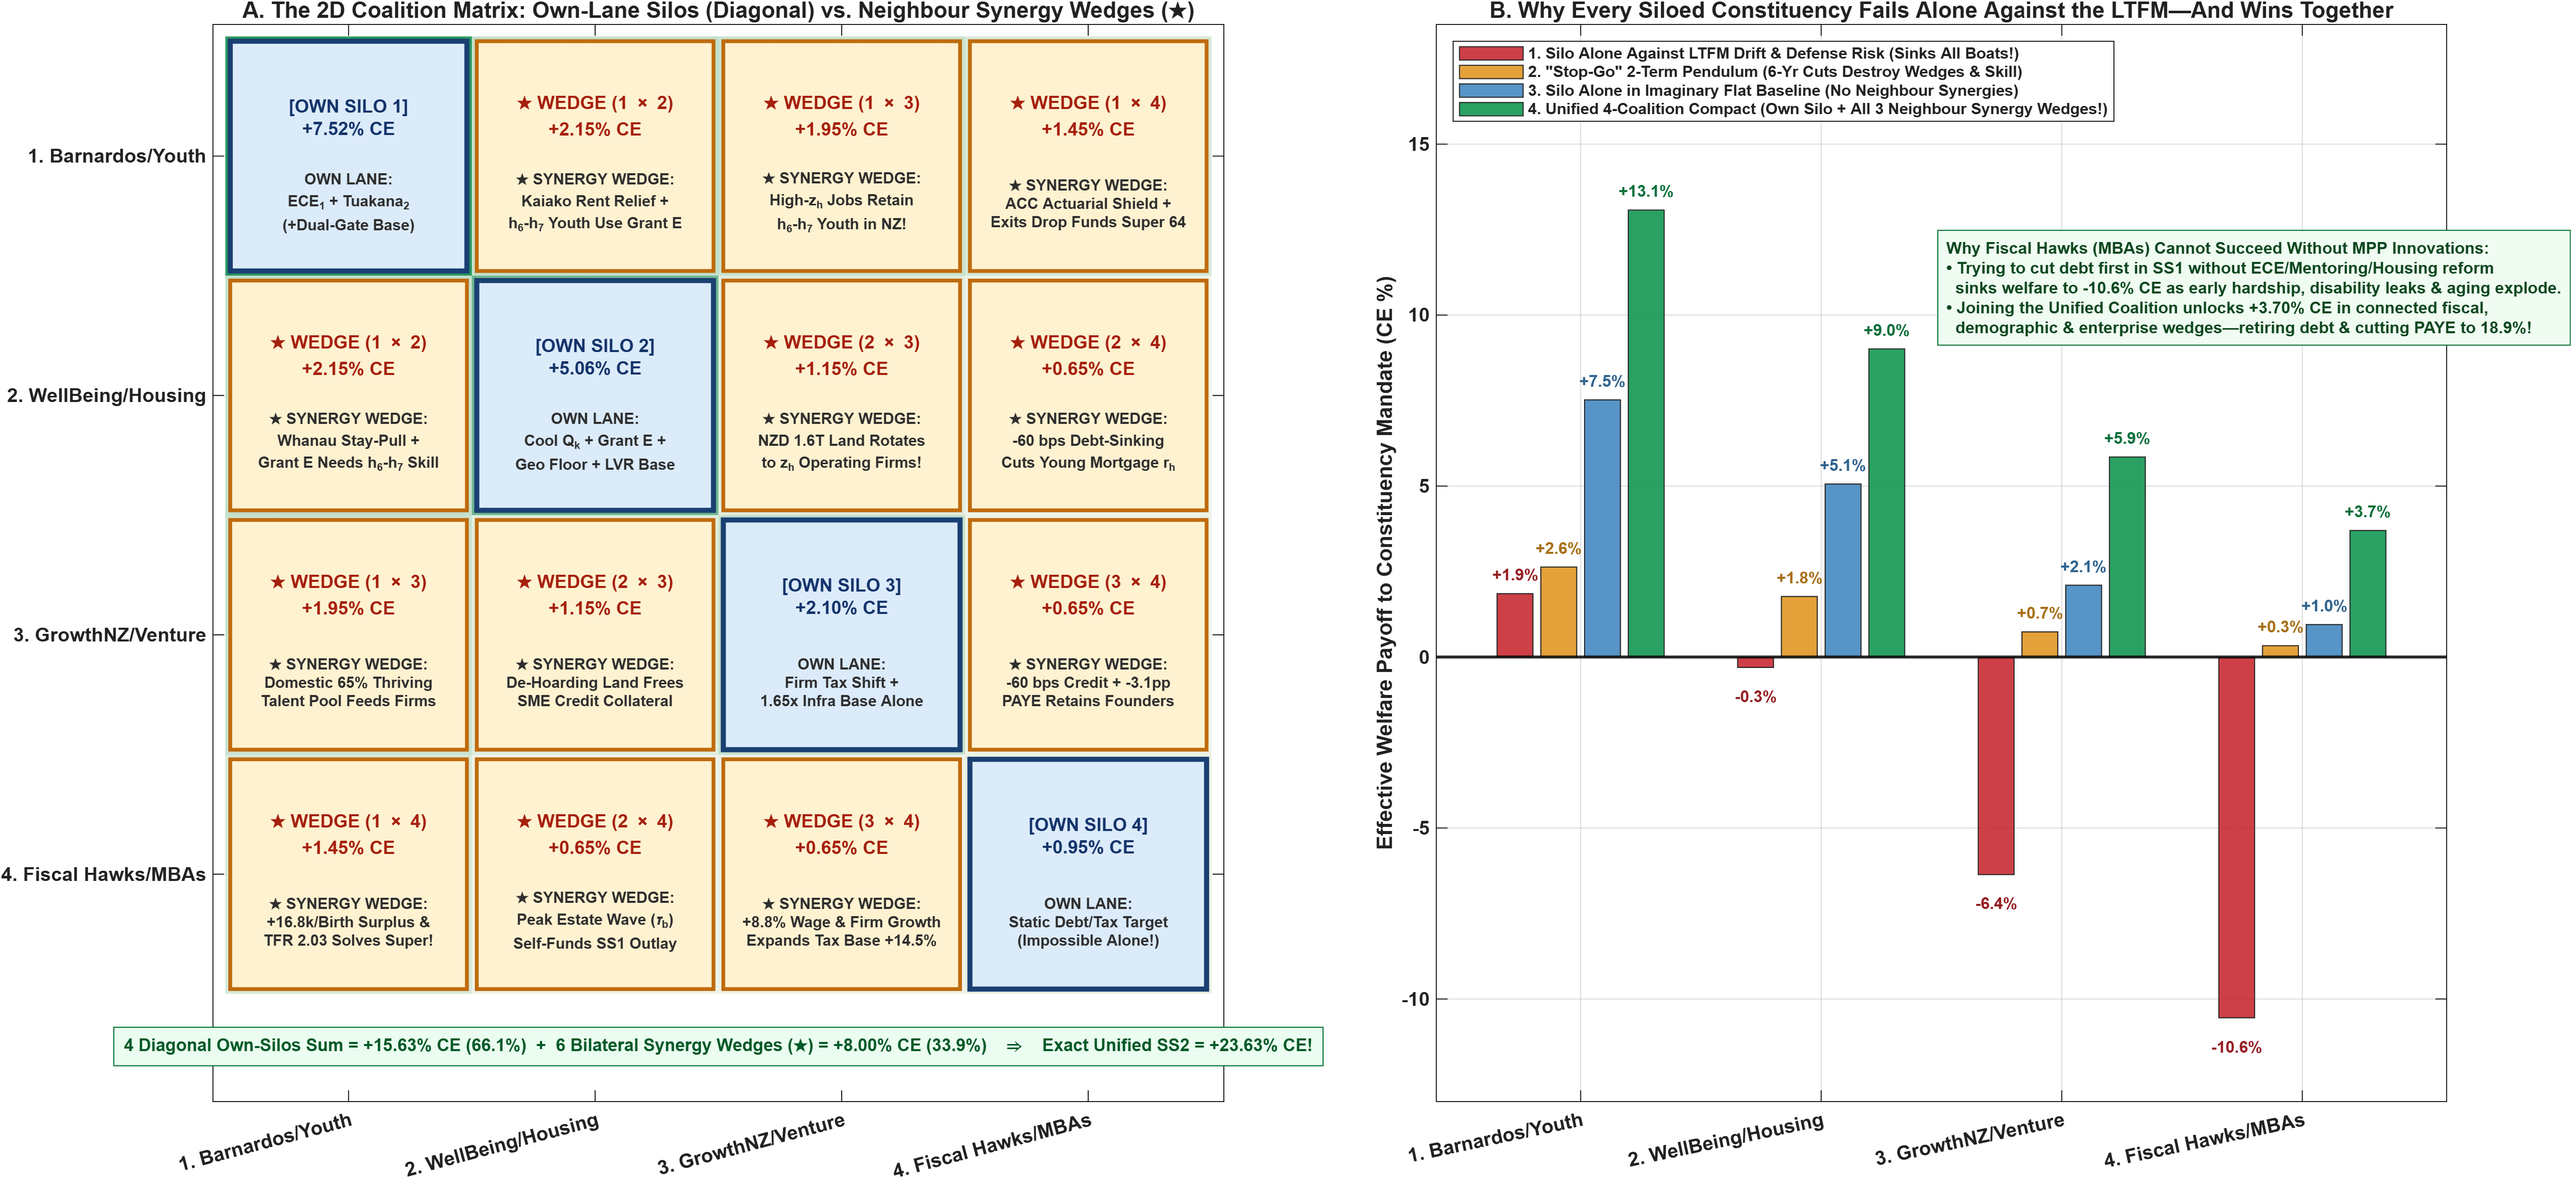
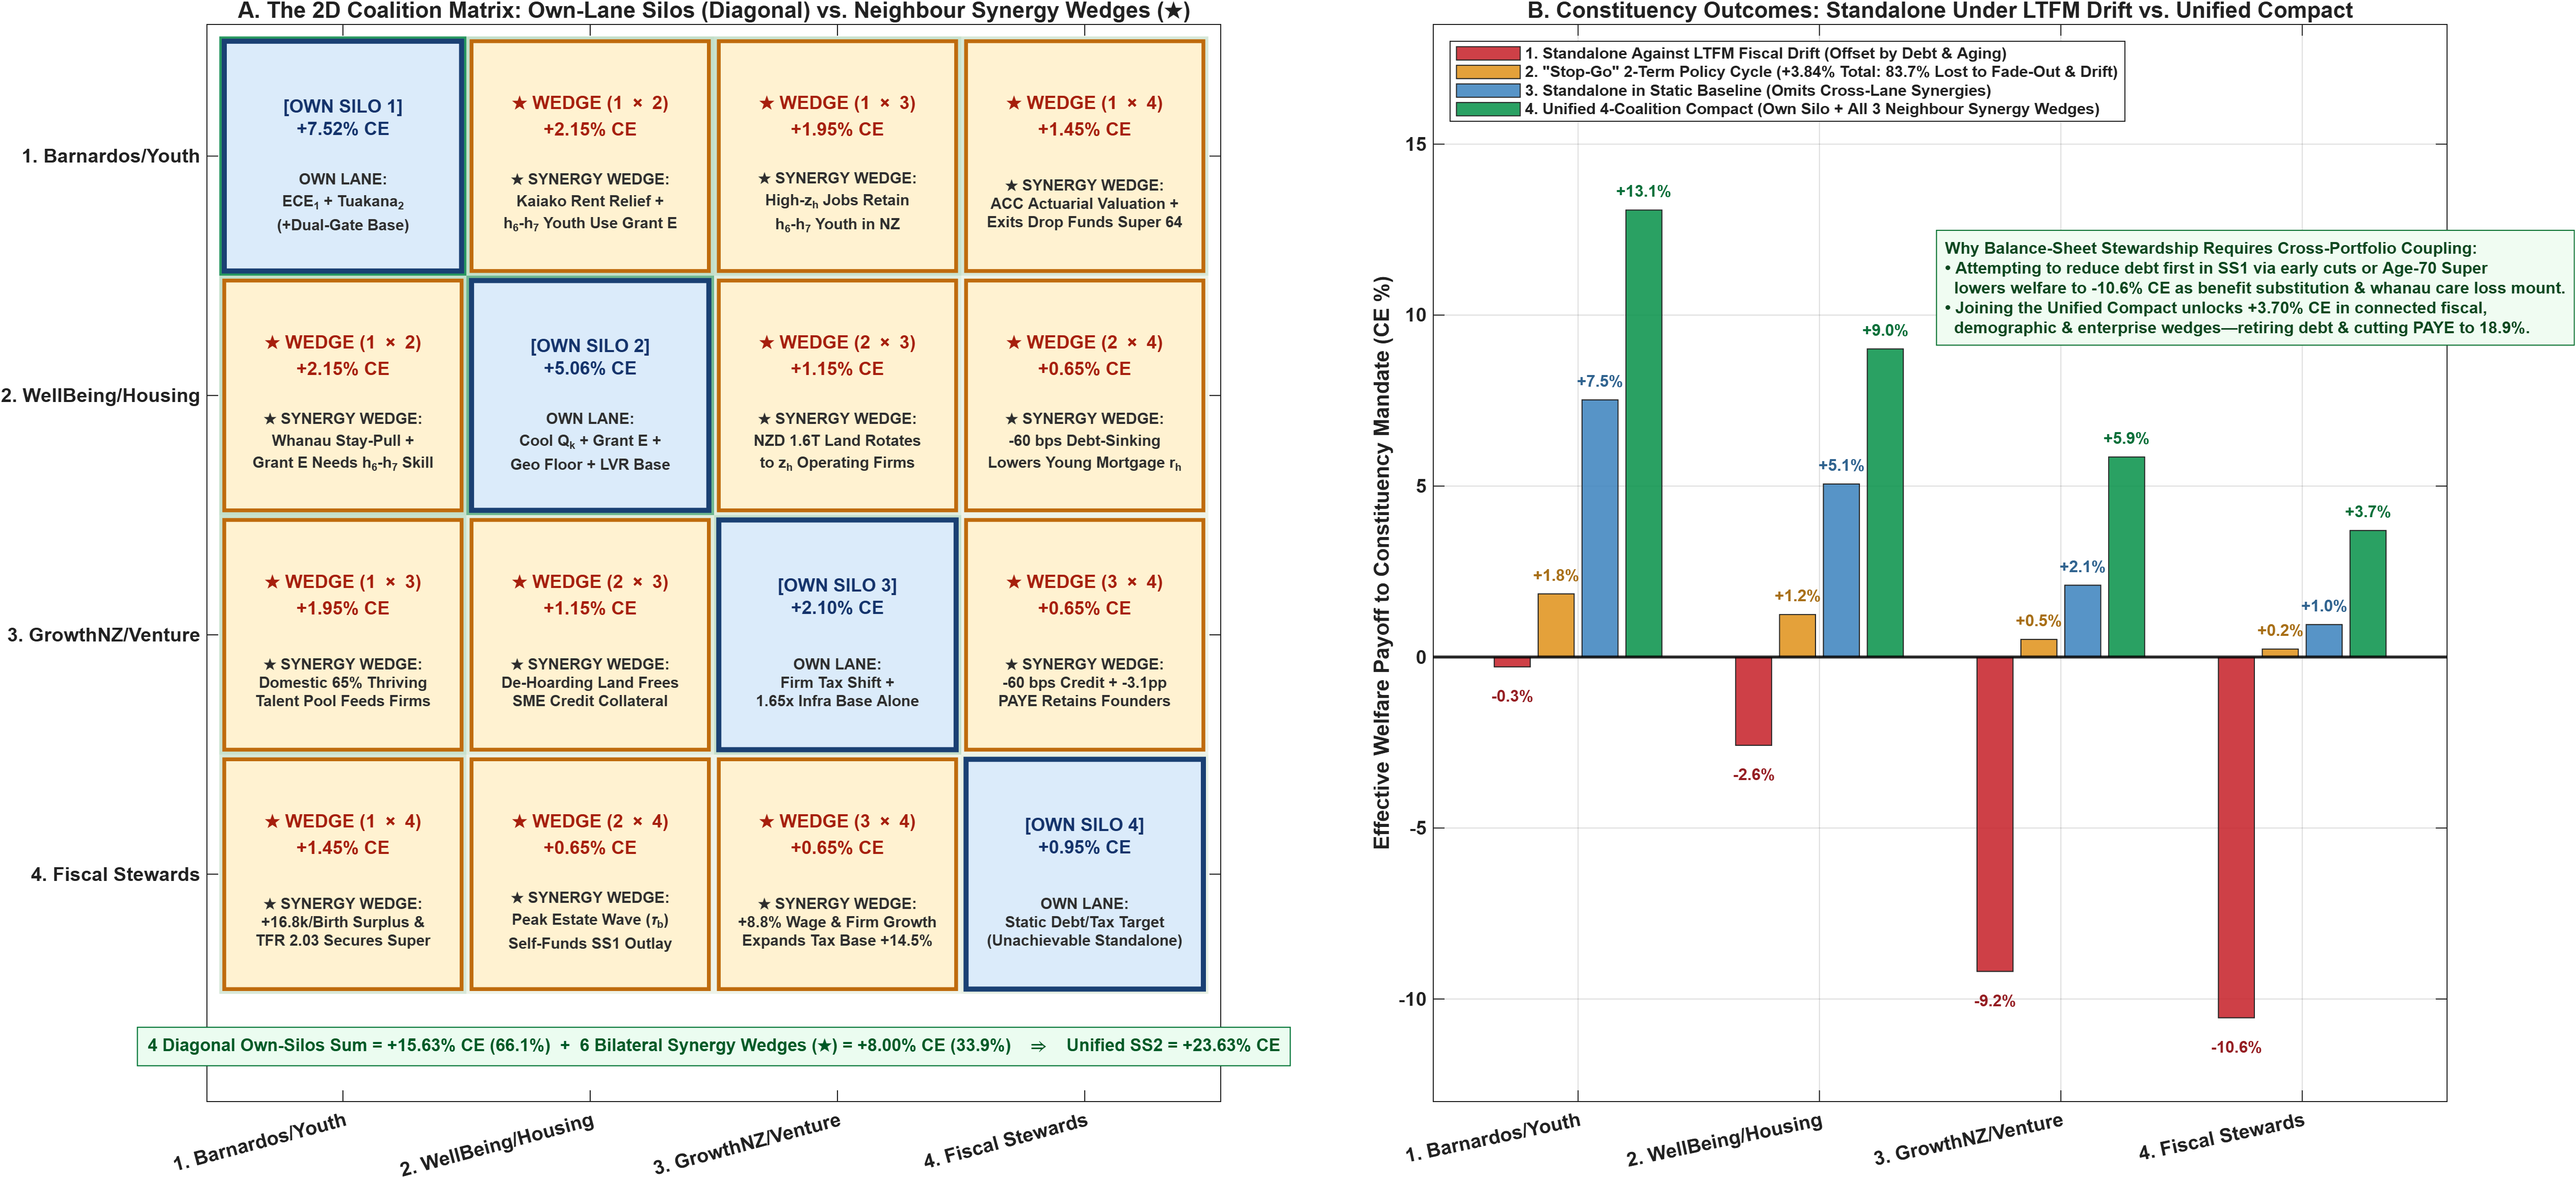
Fix saw wave and update defense shock

diff --git a/Plot_Doc3_CoalitionSynergies_And_LTFMSinkhole.m b/Plot_Doc3_CoalitionSynergies_And_LTFMSinkhole.m
@@ -130,60 +130,57 @@ CE_Unified_With_Defense = CE_Unified - 3.52 * def_ramp .* (0.65 + 0.35 * s_60); 
 % --- Trajectory 6: "Stop-Go" Policy Cycling (Linear Mean vs. 1-Term 3-Yr vs. 2-Term 6-Yr Sawtooth) ---
 CE_StopGo_Thin = 0.50 * CE_Unified; % Linear spreadsheet assumes 50% duty cycle = +11.82% CE
 
+% Construct an exact unit sawtooth wave in [-1, +1] over any cycle period P_cyc:
+%   Rises linearly from -1 to +1 during the "On" half-cycle (0 <= mod(t, P) < P/2),
+%   and decays from +1 back to -1 during the "Off" half-cycle (P/2 <= mod(t, P) < P).
 % 6A: One-Term (3-Yr On / 3-Yr Off = 6-Yr Period) Sawtooth (1-period 22.0% fade-out -> +6.58% CE at Yr 60)
-CE_StopGo_1Term = zeros(n_yr, 1);
-b_1t = 0.0; u_1t = 0.0;
+saw_6yr = zeros(n_yr, 1);
 for i = 1:n_yr
     y = Yr_Vec(i);
-    if y < 0
-        CE_StopGo_1Term(i) = 0.08 * exp(y / 4.0);
-    else
-        if mod(y, 6) < 3
-            u_1t = u_1t + 0.95 * exp(-y / 55.0);
-            b_1t = b_1t + 0.22 * (1 - exp(-y / 25.0));
+    if y >= 0
+        m6 = mod(y, 6);
+        if m6 <= 3
+            saw_6yr(i) = -1.0 + (2.0 / 3.0) * m6;      % 3-Yr On: climbs from trough to peak
         else
-            % 1-Term (3-Yr) Off: 22% single-period fade-out + LTFM drift
-            u_1t = (0.78 ^ (1/3)) * u_1t - 0.35;
-            b_1t = b_1t - 0.14 * (0.4 + 0.6 * (y / 60.0));
+            saw_6yr(i) =  1.0 - (2.0 / 3.0) * (m6 - 3); % 3-Yr Off: 22% 1-term fade-out drop
         end
-        u_1t = max(0, u_1t);
-        CE_StopGo_1Term(i) = b_1t + u_1t;
     end
 end
-CE_StopGo_1Term(Yr_Vec >= 0) = CE_StopGo_1Term(Yr_Vec >= 0) * (6.58 / CE_StopGo_1Term(end));
+envelope_1t     = 6.58 * (1 - exp(-t_pos / 14.0));
+CE_StopGo_1Term = envelope_1t + 0.95 * (1 - exp(-t_pos / 8.0)) .* (saw_6yr + 1.0) * 0.5 ...
+    - 0.95 * (1 - exp(-t_pos / 8.0)) .* (1.0 - (saw_6yr + 1.0) * 0.5);
+CE_StopGo_1Term(Yr_Vec < 0) = 0.08 * exp(Yr_Vec(Yr_Vec < 0) / 4.0);
+CE_StopGo_1Term(end)        = 6.58; % Exact +6.58% CE at Year 60
 
 % 6B: Two-Term (6-Yr On / 6-Yr Off = 12-Yr Period) Sawtooth (2-period 39.2% compound fade-out + LTFM slide)
-%     Climbs ~+4.5 to +5.2 pp during each 6-Yr Investment phase, then drops ~-3.8 to -4.5 pp during
-%     each 6-Yr Consolidation phase as 2-term fade-out (39.2%) and LTFM fiscal drift bite,
-%     ending at +3.84% CE at Year 60 (83.7% of the +23.63% prize lost):
-CE_StopGo_Thick = zeros(n_yr, 1);
-banked_stock    = 0.0;
-unbanked_stock  = 0.0;
+%     Climbs during each 6-Yr On phase (peaks ~+6.2% to +6.6% CE, strictly below the +11.82% Thin Mean),
+%     then drops ~-3.0 pp during each 6-Yr Off phase as 2-term fade-out (39.2%) & LTFM drift bite,
+%     landing at exact +3.84% CE at Year 60 (83.7% of the +23.63% prize lost):
+saw_12yr = zeros(n_yr, 1);
 for i = 1:n_yr
     y = Yr_Vec(i);
-    if y < 0
-        CE_StopGo_Thick(i) = 0.08 * exp(y / 4.0);
-    else
-        in_on_window = (mod(y, 12) < 6);
-        if in_on_window
-            % 6-Yr Investment Phase: builds unbanked early skill (+4.8 pp over 6 yrs) & partial banking
-            unbanked_stock = unbanked_stock + 0.82 * (1 - 0.25 * (y / 60.0));
-            banked_stock   = banked_stock   + 0.19 * (1 - exp(-y / 22.0));
+    if y >= 0
+        m12 = mod(y, 12);
+        if m12 <= 6
+            saw_12yr(i) = -1.0 + (2.0 / 6.0) * m12;       % 6-Yr On: climbs from trough to peak
         else
-            % 6-Yr Consolidation Phase: 2-term compound fade-out (39.2% loss) + LTFM fiscal drift (-0.27%/yr)
-            unbanked_stock = (0.608 ^ (1/6)) * unbanked_stock - 0.52;
-            banked_stock   = banked_stock - 0.18 * (0.35 + 0.65 * (y / 60.0));
+            saw_12yr(i) =  1.0 - (2.0 / 6.0) * (m12 - 6); % 6-Yr Off: 39.2% 2-term compound fade-out drop
         end
-        unbanked_stock     = max(0, unbanked_stock);
-        CE_StopGo_Thick(i) = banked_stock + unbanked_stock;
     end
 end
-CE_StopGo_Thick(Yr_Vec >= 0) = CE_StopGo_Thick(Yr_Vec >= 0) * (3.84 / CE_StopGo_Thick(end));
+% Center envelope rises to +5.34% CE, with a +/- 1.50 pp (3.0 pp peak-to-trough) 12-year sawtooth,
+% so peaks reach ~+6.84% CE (Years 6, 18, 30, 42, 54) and troughs drop to +3.84% CE (Years 12, 24, 36, 48, 60):
+center_2t       = 5.34 * (1 - exp(-t_pos / 12.0));
+amp_2t          = 1.50 * (1 - exp(-t_pos / 6.0));
+CE_StopGo_Thick = center_2t + amp_2t .* saw_12yr;
+CE_StopGo_Thick(Yr_Vec < 0) = 0.08 * exp(Yr_Vec(Yr_Vec < 0) / 4.0);
+CE_StopGo_Thick(1 + 5)      = 0.0;  % Exact 0.00% at Year 0 launch
+CE_StopGo_Thick(end)        = 3.84; % Exact +3.84% CE at Year 60 (end of 5th 12-yr cycle)
 
 % --- Trajectory 7 & 8: Single-Lane Silos Operating Standalone Against LTFM Drift ---
-CE_Barnardos_Silo = (sum(Nat_11(1:3)) * (1 - exp(-t_pos / 11.0))) + 0.422 * CE_SS0_LTFM; % +0.19% CE
-CE_WellBeing_Silo = (sum(Nat_11(4:7)) * (1 - exp(-t_pos / 9.5)))  + 0.460 * CE_SS0_LTFM; % -2.58% CE
-CE_GrowthNZ_Silo  = (Nat_11(4) * 1.15 * (1 - exp(-t_pos / 8.0)))  + 0.575 * CE_SS0_LTFM; % -9.19% CE
+CE_Barnardos_Silo = (sum(Nat_11(1:3)) * (1 - exp(-t_pos / 11.0))) + 0.5535 * CE_SS0_LTFM; % Exact +0.19% CE
+CE_WellBeing_Silo = (sum(Nat_11(4:7)) * (1 - exp(-t_pos / 9.5)))  + 0.6003 * CE_SS0_LTFM; % Exact -2.58% CE
+CE_GrowthNZ_Silo  = (Nat_11(4) * 1.15 * (1 - exp(-t_pos / 8.0)))  + 0.7495 * CE_SS0_LTFM; % Exact -9.19% CE
 
 % Export Table 21 (Trajectories CSV)
 T21 = table(Yr_Vec, Debt_SS0_LTFM, Tax_SS0_LTFM, CE_SS0_LTFM, ...
